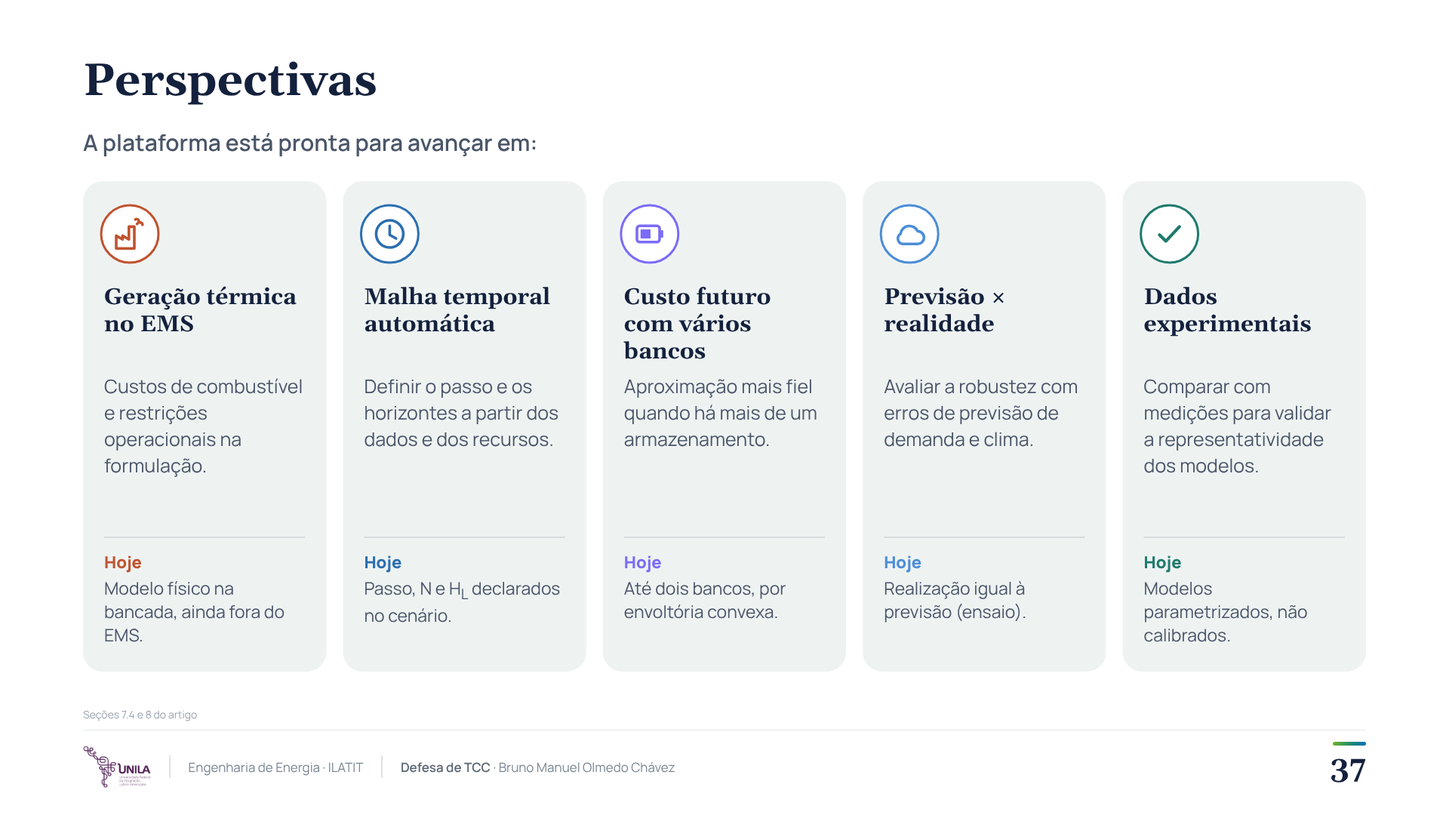
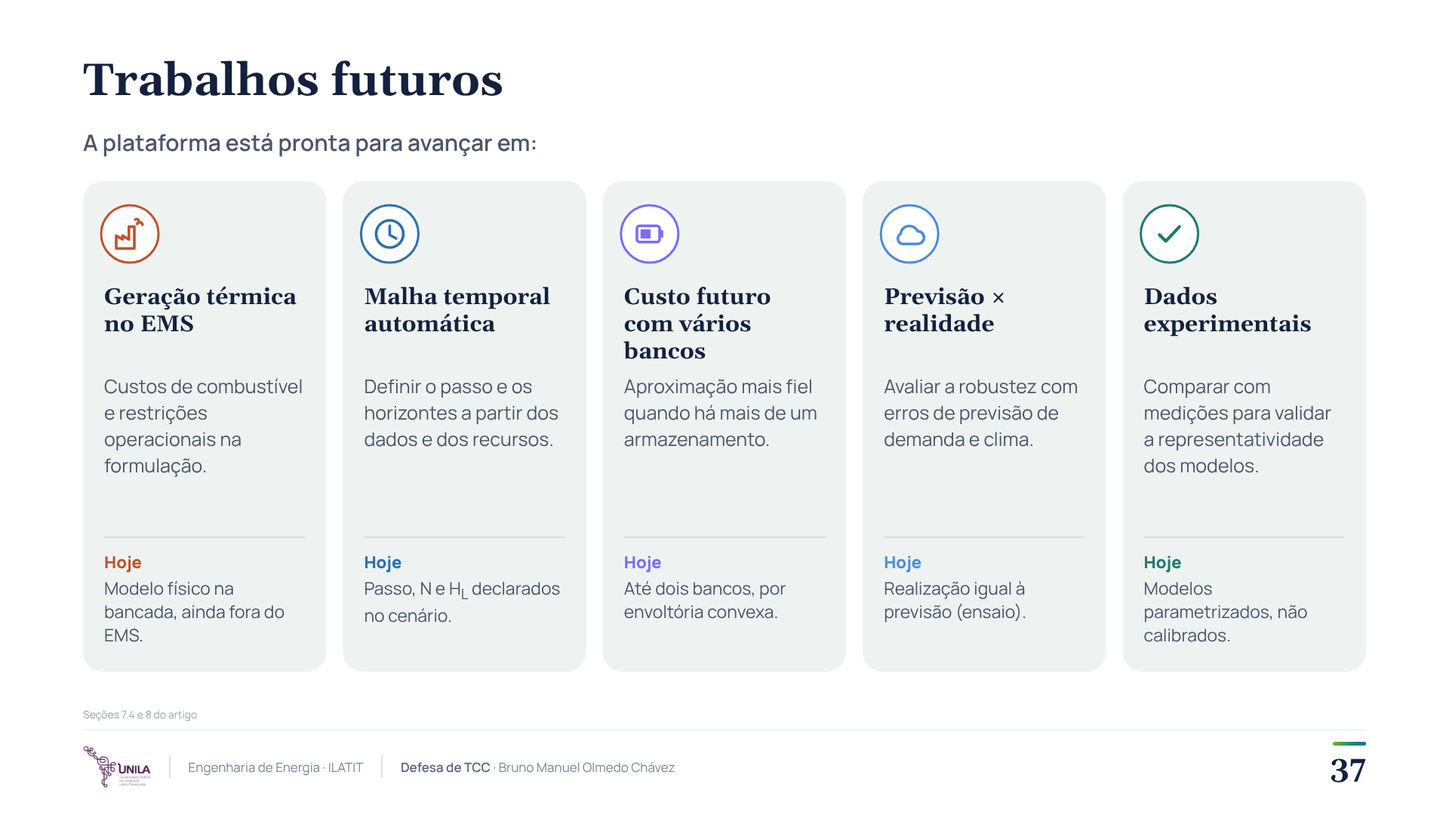
docs(defesa): slide 37 passa a se chamar «Trabalhos futuros» (slide e separador 07)
Claude-Session: https://claude.ai/code/session_01WQ2GpNmr661smFWiS8XCqs

Changed region(s): [[0.0625, 0.0611, 0.3438, 0.1222]]

diff --git a/docs/defesa_tcc/slides/S37_perspectivas.html b/docs/defesa_tcc/slides/S37_perspectivas.html
@@ -16,4 +16,4 @@ html,body{width:1920px;height:1080px;overflow:hidden;background:#fff}
 .p b{font-weight:800;color:#14213D}
 .p i{font-style:normal;color:#C0532F;font-weight:800}
 .p u{text-decoration:none;color:#1F7A6D;font-weight:800}
-</style></head><body><div class="slide"><div class="tt">Perspectivas</div><svg width="1920" height="1080" viewBox="0 0 1920 1080" style="position:absolute;left:0;top:0"><rect x="110.0" y="240" width="322.4" height="650" rx="26" fill="#EEF3F2"/><circle cx="172.0" cy="310" r="38" fill="#fff" stroke="#C0532F" stroke-width="3"/><svg x="148.0" y="286" width="48" height="48" viewBox="0 0 40 40" style="color:#C0532F"><g fill="none" stroke="currentColor" stroke-width="3" stroke-linejoin="round" stroke-linecap="round"><path d="M5 36V22l7 4v-4l7 4V12h6v24z"/><path d="M28 9c2-3 6-2 6 1M26 4c2-1 4 0 4 2"/></g></svg><line x1="138.0" x2="404.4" y1="712" y2="712" stroke="#D5DDDC" stroke-width="2"/><rect x="454.4" y="240" width="322.4" height="650" rx="26" fill="#EEF3F2"/><circle cx="516.4" cy="310" r="38" fill="#fff" stroke="#2C6FB0" stroke-width="3"/><svg x="492.4" y="286" width="48" height="48" viewBox="0 0 40 40" style="color:#2C6FB0"><circle cx="20" cy="20" r="15" fill="none" stroke="currentColor" stroke-width="3"/><path d="M20 11v10l7 4" fill="none" stroke="currentColor" stroke-width="3" stroke-linecap="round"/></svg><line x1="482.4" x2="748.8" y1="712" y2="712" stroke="#D5DDDC" stroke-width="2"/><rect x="798.8" y="240" width="322.4" height="650" rx="26" fill="#EEF3F2"/><circle cx="860.8" cy="310" r="38" fill="#fff" stroke="#7B6CF6" stroke-width="3"/><svg x="836.8" y="286" width="48" height="48" viewBox="0 0 40 40" style="color:#7B6CF6"><rect x="6" y="11" width="25" height="18" rx="3" fill="none" stroke="currentColor" stroke-width="3"/><rect x="32" y="16" width="3" height="8" fill="currentColor"/><rect x="10" y="15" width="11" height="10" fill="currentColor"/></svg><line x1="826.8" x2="1093.1999999999998" y1="712" y2="712" stroke="#D5DDDC" stroke-width="2"/><rect x="1143.1999999999998" y="240" width="322.4" height="650" rx="26" fill="#EEF3F2"/><circle cx="1205.1999999999998" cy="310" r="38" fill="#fff" stroke="#4C8DD6" stroke-width="3"/><svg x="1181.1999999999998" y="286" width="48" height="48" viewBox="0 0 40 40" style="color:#4C8DD6"><path d="M12 31h17a7 7 0 0 0 0-14 10 10 0 0 0-19 3 6 6 0 0 0 2 11z" fill="none" stroke="currentColor" stroke-width="3" stroke-linejoin="round"/></svg><line x1="1171.1999999999998" x2="1437.6" y1="712" y2="712" stroke="#D5DDDC" stroke-width="2"/><rect x="1487.6" y="240" width="322.4" height="650" rx="26" fill="#EEF3F2"/><circle cx="1549.6" cy="310" r="38" fill="#fff" stroke="#1F7A6D" stroke-width="3"/><svg x="1525.6" y="286" width="48" height="48" viewBox="0 0 40 40" style="color:#1F7A6D"><path d="M9 21l7 7 15-16" fill="none" stroke="currentColor" stroke-width="3.5" stroke-linecap="round" stroke-linejoin="round"/></svg><line x1="1515.6" x2="1782.0" y1="712" y2="712" stroke="#D5DDDC" stroke-width="2"/></svg><div class="d " style="left:110px;top:168px;width:1700px;font:600 30px Manrope;color:#4A5568">A plataforma está pronta para avançar em:</div><div class="d " style="left:138.0px;top:376px;width:266.4px;font:700 30px/1.2 Gelasio,serif;color:#14213D">Geração térmica no EMS</div><div class="d p" style="left:138.0px;top:494px;width:266.4px;font-size:25px;line-height:1.4">Custos de combustível e restrições operacionais na formulação.</div><div class="d p" style="left:138.0px;top:730px;width:266.4px;font-size:23px;line-height:1.35"><div style="font:700 22px Manrope;color:#C0532F;margin-bottom:4px">Hoje</div>Modelo físico na bancada, ainda fora do EMS.</div><div class="d " style="left:482.4px;top:376px;width:266.4px;font:700 30px/1.2 Gelasio,serif;color:#14213D">Malha temporal automática</div><div class="d p" style="left:482.4px;top:494px;width:266.4px;font-size:25px;line-height:1.4">Definir o passo e os horizontes a partir dos dados e dos recursos.</div><div class="d p" style="left:482.4px;top:730px;width:266.4px;font-size:23px;line-height:1.35"><div style="font:700 22px Manrope;color:#2C6FB0;margin-bottom:4px">Hoje</div>Passo, N e H<sub>L</sub> declarados no cenário.</div><div class="d " style="left:826.8px;top:376px;width:266.4px;font:700 30px/1.2 Gelasio,serif;color:#14213D">Custo futuro com vários bancos</div><div class="d p" style="left:826.8px;top:494px;width:266.4px;font-size:25px;line-height:1.4">Aproximação mais fiel quando há mais de um armazenamento.</div><div class="d p" style="left:826.8px;top:730px;width:266.4px;font-size:23px;line-height:1.35"><div style="font:700 22px Manrope;color:#7B6CF6;margin-bottom:4px">Hoje</div>Até dois bancos, por envoltória convexa.</div><div class="d " style="left:1171.1999999999998px;top:376px;width:266.4px;font:700 30px/1.2 Gelasio,serif;color:#14213D">Previsão × realidade</div><div class="d p" style="left:1171.1999999999998px;top:494px;width:266.4px;font-size:25px;line-height:1.4">Avaliar a robustez com erros de previsão de demanda e clima.</div><div class="d p" style="left:1171.1999999999998px;top:730px;width:266.4px;font-size:23px;line-height:1.35"><div style="font:700 22px Manrope;color:#4C8DD6;margin-bottom:4px">Hoje</div>Realização igual à previsão (ensaio).</div><div class="d " style="left:1515.6px;top:376px;width:266.4px;font:700 30px/1.2 Gelasio,serif;color:#14213D">Dados experimentais</div><div class="d p" style="left:1515.6px;top:494px;width:266.4px;font-size:25px;line-height:1.4">Comparar com medições para validar a representatividade dos modelos.</div><div class="d p" style="left:1515.6px;top:730px;width:266.4px;font-size:23px;line-height:1.35"><div style="font:700 22px Manrope;color:#1F7A6D;margin-bottom:4px">Hoje</div>Modelos parametrizados, não calibrados.</div><div class="ref">Seções 7.4 e 8 do artigo</div><div class="hl" style="bottom:112px"></div><div class="ft"><img src="../capa/assets/unila.png"><div class="sep"></div><span>Engenharia de Energia · ILATIT</span><div class="sep"></div><span><b>Defesa de TCC</b> · Bruno Manuel Olmedo Chávez</span></div><div class="pn">37</div></div></body></html>
+</style></head><body><div class="slide"><div class="tt">Trabalhos futuros</div><svg width="1920" height="1080" viewBox="0 0 1920 1080" style="position:absolute;left:0;top:0"><rect x="110.0" y="240" width="322.4" height="650" rx="26" fill="#EEF3F2"/><circle cx="172.0" cy="310" r="38" fill="#fff" stroke="#C0532F" stroke-width="3"/><svg x="148.0" y="286" width="48" height="48" viewBox="0 0 40 40" style="color:#C0532F"><g fill="none" stroke="currentColor" stroke-width="3" stroke-linejoin="round" stroke-linecap="round"><path d="M5 36V22l7 4v-4l7 4V12h6v24z"/><path d="M28 9c2-3 6-2 6 1M26 4c2-1 4 0 4 2"/></g></svg><line x1="138.0" x2="404.4" y1="712" y2="712" stroke="#D5DDDC" stroke-width="2"/><rect x="454.4" y="240" width="322.4" height="650" rx="26" fill="#EEF3F2"/><circle cx="516.4" cy="310" r="38" fill="#fff" stroke="#2C6FB0" stroke-width="3"/><svg x="492.4" y="286" width="48" height="48" viewBox="0 0 40 40" style="color:#2C6FB0"><circle cx="20" cy="20" r="15" fill="none" stroke="currentColor" stroke-width="3"/><path d="M20 11v10l7 4" fill="none" stroke="currentColor" stroke-width="3" stroke-linecap="round"/></svg><line x1="482.4" x2="748.8" y1="712" y2="712" stroke="#D5DDDC" stroke-width="2"/><rect x="798.8" y="240" width="322.4" height="650" rx="26" fill="#EEF3F2"/><circle cx="860.8" cy="310" r="38" fill="#fff" stroke="#7B6CF6" stroke-width="3"/><svg x="836.8" y="286" width="48" height="48" viewBox="0 0 40 40" style="color:#7B6CF6"><rect x="6" y="11" width="25" height="18" rx="3" fill="none" stroke="currentColor" stroke-width="3"/><rect x="32" y="16" width="3" height="8" fill="currentColor"/><rect x="10" y="15" width="11" height="10" fill="currentColor"/></svg><line x1="826.8" x2="1093.1999999999998" y1="712" y2="712" stroke="#D5DDDC" stroke-width="2"/><rect x="1143.1999999999998" y="240" width="322.4" height="650" rx="26" fill="#EEF3F2"/><circle cx="1205.1999999999998" cy="310" r="38" fill="#fff" stroke="#4C8DD6" stroke-width="3"/><svg x="1181.1999999999998" y="286" width="48" height="48" viewBox="0 0 40 40" style="color:#4C8DD6"><path d="M12 31h17a7 7 0 0 0 0-14 10 10 0 0 0-19 3 6 6 0 0 0 2 11z" fill="none" stroke="currentColor" stroke-width="3" stroke-linejoin="round"/></svg><line x1="1171.1999999999998" x2="1437.6" y1="712" y2="712" stroke="#D5DDDC" stroke-width="2"/><rect x="1487.6" y="240" width="322.4" height="650" rx="26" fill="#EEF3F2"/><circle cx="1549.6" cy="310" r="38" fill="#fff" stroke="#1F7A6D" stroke-width="3"/><svg x="1525.6" y="286" width="48" height="48" viewBox="0 0 40 40" style="color:#1F7A6D"><path d="M9 21l7 7 15-16" fill="none" stroke="currentColor" stroke-width="3.5" stroke-linecap="round" stroke-linejoin="round"/></svg><line x1="1515.6" x2="1782.0" y1="712" y2="712" stroke="#D5DDDC" stroke-width="2"/></svg><div class="d " style="left:110px;top:168px;width:1700px;font:600 30px Manrope;color:#4A5568">A plataforma está pronta para avançar em:</div><div class="d " style="left:138.0px;top:376px;width:266.4px;font:700 30px/1.2 Gelasio,serif;color:#14213D">Geração térmica no EMS</div><div class="d p" style="left:138.0px;top:494px;width:266.4px;font-size:25px;line-height:1.4">Custos de combustível e restrições operacionais na formulação.</div><div class="d p" style="left:138.0px;top:730px;width:266.4px;font-size:23px;line-height:1.35"><div style="font:700 22px Manrope;color:#C0532F;margin-bottom:4px">Hoje</div>Modelo físico na bancada, ainda fora do EMS.</div><div class="d " style="left:482.4px;top:376px;width:266.4px;font:700 30px/1.2 Gelasio,serif;color:#14213D">Malha temporal automática</div><div class="d p" style="left:482.4px;top:494px;width:266.4px;font-size:25px;line-height:1.4">Definir o passo e os horizontes a partir dos dados e dos recursos.</div><div class="d p" style="left:482.4px;top:730px;width:266.4px;font-size:23px;line-height:1.35"><div style="font:700 22px Manrope;color:#2C6FB0;margin-bottom:4px">Hoje</div>Passo, N e H<sub>L</sub> declarados no cenário.</div><div class="d " style="left:826.8px;top:376px;width:266.4px;font:700 30px/1.2 Gelasio,serif;color:#14213D">Custo futuro com vários bancos</div><div class="d p" style="left:826.8px;top:494px;width:266.4px;font-size:25px;line-height:1.4">Aproximação mais fiel quando há mais de um armazenamento.</div><div class="d p" style="left:826.8px;top:730px;width:266.4px;font-size:23px;line-height:1.35"><div style="font:700 22px Manrope;color:#7B6CF6;margin-bottom:4px">Hoje</div>Até dois bancos, por envoltória convexa.</div><div class="d " style="left:1171.1999999999998px;top:376px;width:266.4px;font:700 30px/1.2 Gelasio,serif;color:#14213D">Previsão × realidade</div><div class="d p" style="left:1171.1999999999998px;top:494px;width:266.4px;font-size:25px;line-height:1.4">Avaliar a robustez com erros de previsão de demanda e clima.</div><div class="d p" style="left:1171.1999999999998px;top:730px;width:266.4px;font-size:23px;line-height:1.35"><div style="font:700 22px Manrope;color:#4C8DD6;margin-bottom:4px">Hoje</div>Realização igual à previsão (ensaio).</div><div class="d " style="left:1515.6px;top:376px;width:266.4px;font:700 30px/1.2 Gelasio,serif;color:#14213D">Dados experimentais</div><div class="d p" style="left:1515.6px;top:494px;width:266.4px;font-size:25px;line-height:1.4">Comparar com medições para validar a representatividade dos modelos.</div><div class="d p" style="left:1515.6px;top:730px;width:266.4px;font-size:23px;line-height:1.35"><div style="font:700 22px Manrope;color:#1F7A6D;margin-bottom:4px">Hoje</div>Modelos parametrizados, não calibrados.</div><div class="ref">Seções 7.4 e 8 do artigo</div><div class="hl" style="bottom:112px"></div><div class="ft"><img src="../capa/assets/unila.png"><div class="sep"></div><span>Engenharia de Energia · ILATIT</span><div class="sep"></div><span><b>Defesa de TCC</b> · Bruno Manuel Olmedo Chávez</span></div><div class="pn">37</div></div></body></html>

diff --git a/docs/defesa_tcc/slides/divisor07.html b/docs/defesa_tcc/slides/divisor07.html
@@ -14,4 +14,4 @@ html,body{width:1920px;height:1080px;overflow:hidden;background:#fff}
 .d{position:absolute}
 .big{font:700 86px/1.05 "Gelasio",Georgia,serif;color:#14213D}
 .it{font:700 34px/1.2 "Gelasio",Georgia,serif;color:#14213D}
-</style></head><body><div class="slide" style=""><svg width="1920" height="1080" viewBox="0 0 1920 1080" style="position:absolute;left:0;top:0"><defs><linearGradient id="gb" x1="0" x2="1"><stop offset="0" stop-color="#6DB527"/><stop offset=".55" stop-color="#1E8A72"/><stop offset="1" stop-color="#0072BA"/></linearGradient><linearGradient id="gv" x1="0" y1="0" x2="0" y2="1"><stop offset="0" stop-color="#6DB527"/><stop offset=".55" stop-color="#1E8A72"/><stop offset="1" stop-color="#0072BA"/></linearGradient><radialGradient id="ge" cx=".5" cy=".5" r=".5"><stop offset="0" stop-color="#2C6FB0" stop-opacity=".16"/><stop offset="1" stop-color="#2C6FB0" stop-opacity=".03"/></radialGradient><radialGradient id="gs" cx=".5" cy=".5" r=".5"><stop offset="0" stop-color="#2E9E6B" stop-opacity=".16"/><stop offset="1" stop-color="#2E9E6B" stop-opacity=".03"/></radialGradient><linearGradient id="gq" x1="0" y1="1" x2="1" y2="0"><stop offset="0" stop-color="#1E8A72" stop-opacity="0"/><stop offset="1" stop-color="#1E8A72" stop-opacity=".13"/></linearGradient><linearGradient id="gsoc" x1="0" y1="0" x2="0" y2="1"><stop offset="0" stop-color="#7B6CF6" stop-opacity=".22"/><stop offset="1" stop-color="#7B6CF6" stop-opacity="0"/></linearGradient><linearGradient id="glime" x1="0" y1="0" x2="0" y2="1"><stop offset="0" stop-color="#C1FF72" stop-opacity=".30"/><stop offset="1" stop-color="#C1FF72" stop-opacity="0"/></linearGradient><filter id="halo" x="-60%" y="-60%" width="220%" height="220%"><feGaussianBlur stdDeviation="14"/></filter><marker id="ar" viewBox="0 0 10 10" refX="8" refY="5" markerWidth="9" markerHeight="9" orient="auto-start-reverse"><path d="M0 0L10 5L0 10z" fill="#14213D"/></marker><marker id="at" viewBox="0 0 10 10" refX="8" refY="5" markerWidth="8" markerHeight="8" orient="auto"><path d="M0 0L10 5L0 10z" fill="#1F7A6D"/></marker><clipPath id="cl"><circle cx="0" cy="0" r="1"/></clipPath><linearGradient id="gf" x1="0" y1="0" x2="0" y2="1"><stop offset="0" stop-color="#C0532F" stop-opacity=".24"/><stop offset="1" stop-color="#C0532F" stop-opacity="0"/></linearGradient><filter id="sh" x="-10%" y="-10%" width="120%" height="130%"><feDropShadow dx="0" dy="8" stdDeviation="14" flood-color="#14213D" flood-opacity=".12"/></filter></defs><polygon points="110.0,96 326.0,96 346.0,120.0 326.0,144 110.0,144" fill="#5cac37" opacity="0.22"/><text x="234.0" y="128.0" text-anchor="middle" font-family="Gelasio" font-weight="700" font-size="22" fill="#fff" letter-spacing="0">01</text><polygon points="354.0,96 570.0,96 590.0,120.0 570.0,144 354.0,144 374.0,120.0" fill="#4aa249" opacity="0.22"/><text x="478.0" y="128.0" text-anchor="middle" font-family="Gelasio" font-weight="700" font-size="22" fill="#fff" letter-spacing="0">02</text><polygon points="598.0,96 814.0,96 834.0,120.0 814.0,144 598.0,144 618.0,120.0" fill="#37985a" opacity="0.22"/><text x="722.0" y="128.0" text-anchor="middle" font-family="Gelasio" font-weight="700" font-size="22" fill="#fff" letter-spacing="0">03</text><polygon points="842.0,96 1058.0,96 1078.0,120.0 1058.0,144 842.0,144 862.0,120.0" fill="#258e6b" opacity="0.22"/><text x="966.0" y="128.0" text-anchor="middle" font-family="Gelasio" font-weight="700" font-size="22" fill="#fff" letter-spacing="0">04</text><polygon points="1086.0,96 1302.0,96 1322.0,120.0 1302.0,144 1086.0,144 1106.0,120.0" fill="#19867e" opacity="0.22"/><text x="1210.0" y="128.0" text-anchor="middle" font-family="Gelasio" font-weight="700" font-size="22" fill="#fff" letter-spacing="0">05</text><polygon points="1330.0,96 1546.0,96 1566.0,120.0 1546.0,144 1330.0,144 1350.0,120.0" fill="#107f92" opacity="0.22"/><text x="1454.0" y="128.0" text-anchor="middle" font-family="Gelasio" font-weight="700" font-size="22" fill="#fff" letter-spacing="0">06</text><polygon points="1574.0,96 1790.0,96 1810.0,120.0 1790.0,144 1574.0,144 1594.0,120.0" fill="#0878a7" opacity="1"/><text x="1698.0" y="128.0" text-anchor="middle" font-family="Gelasio" font-weight="700" font-size="22" fill="#fff" letter-spacing="0">07</text><text x="110" y="400" text-anchor="start" font-family="Gelasio" font-weight="700" font-size="230" fill="#0878a7" letter-spacing="0">07</text><svg x="1694" y="236" width="116" height="116" viewBox="0 0 40 40" style="color:#0878a7" fill="none" stroke="currentColor" stroke-width="3" stroke-linecap="round" stroke-linejoin="round"><path d="M9 36V5"/><path d="M9 6h20l-4 7 4 7H9"/></svg><rect x="110" y="600" width="840" height="100" rx="22" fill="#EEF3F2"/><circle cx="164" cy="650.0" r="28" fill="#0878a7"/><text x="164" y="659.0" text-anchor="middle" font-family="Gelasio" font-weight="700" font-size="26" fill="#fff" letter-spacing="0">1</text><rect x="970" y="600" width="840" height="100" rx="22" fill="#EEF3F2"/><circle cx="1024" cy="650.0" r="28" fill="#0878a7"/><text x="1024" y="659.0" text-anchor="middle" font-family="Gelasio" font-weight="700" font-size="26" fill="#fff" letter-spacing="0">2</text><rect x="110" y="720" width="840" height="100" rx="22" fill="#EEF3F2"/><circle cx="164" cy="770.0" r="28" fill="#0878a7"/><text x="164" y="779.0" text-anchor="middle" font-family="Gelasio" font-weight="700" font-size="26" fill="#fff" letter-spacing="0">3</text></svg><div class="d big" style="left:110px;top:452px;width:1500px">Conclusões e perspectivas</div><div class="d it" style="left:214px;top:628.0px;width:710px;font-size:28px">Conclusões</div><div class="d it" style="left:1074px;top:628.0px;width:710px;font-size:28px">Perspectivas</div><div class="d it" style="left:214px;top:748.0px;width:710px;font-size:28px">Agradecimentos</div><div class="hl" style="bottom:112px"></div><div class="ft"><img src="../capa/assets/unila.png"><div class="sep"></div><span>Engenharia de Energia · ILATIT</span><div class="sep"></div><span><b>Defesa de TCC</b> · Bruno Manuel Olmedo Chávez</span></div><div class="pn">34</div></div></body></html>
+</style></head><body><div class="slide" style=""><svg width="1920" height="1080" viewBox="0 0 1920 1080" style="position:absolute;left:0;top:0"><defs><linearGradient id="gb" x1="0" x2="1"><stop offset="0" stop-color="#6DB527"/><stop offset=".55" stop-color="#1E8A72"/><stop offset="1" stop-color="#0072BA"/></linearGradient><linearGradient id="gv" x1="0" y1="0" x2="0" y2="1"><stop offset="0" stop-color="#6DB527"/><stop offset=".55" stop-color="#1E8A72"/><stop offset="1" stop-color="#0072BA"/></linearGradient><radialGradient id="ge" cx=".5" cy=".5" r=".5"><stop offset="0" stop-color="#2C6FB0" stop-opacity=".16"/><stop offset="1" stop-color="#2C6FB0" stop-opacity=".03"/></radialGradient><radialGradient id="gs" cx=".5" cy=".5" r=".5"><stop offset="0" stop-color="#2E9E6B" stop-opacity=".16"/><stop offset="1" stop-color="#2E9E6B" stop-opacity=".03"/></radialGradient><linearGradient id="gq" x1="0" y1="1" x2="1" y2="0"><stop offset="0" stop-color="#1E8A72" stop-opacity="0"/><stop offset="1" stop-color="#1E8A72" stop-opacity=".13"/></linearGradient><linearGradient id="gsoc" x1="0" y1="0" x2="0" y2="1"><stop offset="0" stop-color="#7B6CF6" stop-opacity=".22"/><stop offset="1" stop-color="#7B6CF6" stop-opacity="0"/></linearGradient><linearGradient id="glime" x1="0" y1="0" x2="0" y2="1"><stop offset="0" stop-color="#C1FF72" stop-opacity=".30"/><stop offset="1" stop-color="#C1FF72" stop-opacity="0"/></linearGradient><filter id="halo" x="-60%" y="-60%" width="220%" height="220%"><feGaussianBlur stdDeviation="14"/></filter><marker id="ar" viewBox="0 0 10 10" refX="8" refY="5" markerWidth="9" markerHeight="9" orient="auto-start-reverse"><path d="M0 0L10 5L0 10z" fill="#14213D"/></marker><marker id="at" viewBox="0 0 10 10" refX="8" refY="5" markerWidth="8" markerHeight="8" orient="auto"><path d="M0 0L10 5L0 10z" fill="#1F7A6D"/></marker><clipPath id="cl"><circle cx="0" cy="0" r="1"/></clipPath><linearGradient id="gf" x1="0" y1="0" x2="0" y2="1"><stop offset="0" stop-color="#C0532F" stop-opacity=".24"/><stop offset="1" stop-color="#C0532F" stop-opacity="0"/></linearGradient><filter id="sh" x="-10%" y="-10%" width="120%" height="130%"><feDropShadow dx="0" dy="8" stdDeviation="14" flood-color="#14213D" flood-opacity=".12"/></filter></defs><polygon points="110.0,96 326.0,96 346.0,120.0 326.0,144 110.0,144" fill="#5cac37" opacity="0.22"/><text x="234.0" y="128.0" text-anchor="middle" font-family="Gelasio" font-weight="700" font-size="22" fill="#fff" letter-spacing="0">01</text><polygon points="354.0,96 570.0,96 590.0,120.0 570.0,144 354.0,144 374.0,120.0" fill="#4aa249" opacity="0.22"/><text x="478.0" y="128.0" text-anchor="middle" font-family="Gelasio" font-weight="700" font-size="22" fill="#fff" letter-spacing="0">02</text><polygon points="598.0,96 814.0,96 834.0,120.0 814.0,144 598.0,144 618.0,120.0" fill="#37985a" opacity="0.22"/><text x="722.0" y="128.0" text-anchor="middle" font-family="Gelasio" font-weight="700" font-size="22" fill="#fff" letter-spacing="0">03</text><polygon points="842.0,96 1058.0,96 1078.0,120.0 1058.0,144 842.0,144 862.0,120.0" fill="#258e6b" opacity="0.22"/><text x="966.0" y="128.0" text-anchor="middle" font-family="Gelasio" font-weight="700" font-size="22" fill="#fff" letter-spacing="0">04</text><polygon points="1086.0,96 1302.0,96 1322.0,120.0 1302.0,144 1086.0,144 1106.0,120.0" fill="#19867e" opacity="0.22"/><text x="1210.0" y="128.0" text-anchor="middle" font-family="Gelasio" font-weight="700" font-size="22" fill="#fff" letter-spacing="0">05</text><polygon points="1330.0,96 1546.0,96 1566.0,120.0 1546.0,144 1330.0,144 1350.0,120.0" fill="#107f92" opacity="0.22"/><text x="1454.0" y="128.0" text-anchor="middle" font-family="Gelasio" font-weight="700" font-size="22" fill="#fff" letter-spacing="0">06</text><polygon points="1574.0,96 1790.0,96 1810.0,120.0 1790.0,144 1574.0,144 1594.0,120.0" fill="#0878a7" opacity="1"/><text x="1698.0" y="128.0" text-anchor="middle" font-family="Gelasio" font-weight="700" font-size="22" fill="#fff" letter-spacing="0">07</text><text x="110" y="400" text-anchor="start" font-family="Gelasio" font-weight="700" font-size="230" fill="#0878a7" letter-spacing="0">07</text><svg x="1694" y="236" width="116" height="116" viewBox="0 0 40 40" style="color:#0878a7" fill="none" stroke="currentColor" stroke-width="3" stroke-linecap="round" stroke-linejoin="round"><path d="M9 36V5"/><path d="M9 6h20l-4 7 4 7H9"/></svg><rect x="110" y="600" width="840" height="100" rx="22" fill="#EEF3F2"/><circle cx="164" cy="650.0" r="28" fill="#0878a7"/><text x="164" y="659.0" text-anchor="middle" font-family="Gelasio" font-weight="700" font-size="26" fill="#fff" letter-spacing="0">1</text><rect x="970" y="600" width="840" height="100" rx="22" fill="#EEF3F2"/><circle cx="1024" cy="650.0" r="28" fill="#0878a7"/><text x="1024" y="659.0" text-anchor="middle" font-family="Gelasio" font-weight="700" font-size="26" fill="#fff" letter-spacing="0">2</text><rect x="110" y="720" width="840" height="100" rx="22" fill="#EEF3F2"/><circle cx="164" cy="770.0" r="28" fill="#0878a7"/><text x="164" y="779.0" text-anchor="middle" font-family="Gelasio" font-weight="700" font-size="26" fill="#fff" letter-spacing="0">3</text></svg><div class="d big" style="left:110px;top:452px;width:1500px">Conclusões e perspectivas</div><div class="d it" style="left:214px;top:628.0px;width:710px;font-size:28px">Conclusões</div><div class="d it" style="left:1074px;top:628.0px;width:710px;font-size:28px">Trabalhos futuros</div><div class="d it" style="left:214px;top:748.0px;width:710px;font-size:28px">Agradecimentos</div><div class="hl" style="bottom:112px"></div><div class="ft"><img src="../capa/assets/unila.png"><div class="sep"></div><span>Engenharia de Energia · ILATIT</span><div class="sep"></div><span><b>Defesa de TCC</b> · Bruno Manuel Olmedo Chávez</span></div><div class="pn">34</div></div></body></html>

diff --git a/docs/defesa_tcc/slides/gerar_slide37.py b/docs/defesa_tcc/slides/gerar_slide37.py
@@ -1,4 +1,4 @@
-"""Slide 37 (deck) — Perspectivas, tom construtivo («a plataforma está pronta para avançar em…»). Cinco perspectivas do artigo
+"""Slide 37 (deck) — Trabalhos futuros (antes «Perspectivas»; pedido do responsável), tom construtivo («a plataforma está pronta para avançar em…»). Cinco perspectivas do artigo
 (Seção 7.4/8): térmica no EMS (custos de combustível e restrições operacionais); malha temporal e discretização automáticas; custo
 futuro para múltiplos bancos; previsões × condições realizadas (robustez); comparação com dados experimentais. A linha «Hoje» descreve
 o estado atual verificado no código (CLAUDE.md): térmica bloqueada no EMS V2 (M19/CVU não implementado); Δ, N e H_L declarados no
@@ -10,7 +10,7 @@ from gerar_slide16 import CSSM, HEAD, NAVY, LIGHT, div, ic
 from gerar_slide8 import rodape
 
 D = os.path.dirname(os.path.abspath(__file__))
-TIT = "Perspectivas"
+TIT = "Trabalhos futuros"
 REF = "Seções 7.4 e 8 do artigo"
 TEAL = "#1F7A6D"
 P = [("fire", "#C0532F", "Geração térmica no EMS", "Custos de combustível e restrições operacionais na formulação.",

diff --git a/docs/defesa_tcc/slides/gerar_divisores.py b/docs/defesa_tcc/slides/gerar_divisores.py
@@ -26,7 +26,7 @@ SUB = {
     5: ["Reprodução ao vivo de um estudo de caso no aplicativo"],
     6: ["Operação do armazenamento", "Custos operacionais (C1–C4)", "Embarcação híbrida (C5 × C6)",
         "Expansibilidade e desempenho computacional"],
-    7: ["Conclusões", "Perspectivas", "Agradecimentos"],
+    7: ["Conclusões", "Trabalhos futuros", "Agradecimentos"],
 }
 PN = {1: 3, 2: 9, 3: 16, 4: 21, 5: 25, 6: 27, 7: 34}     # posição no deck de 36 slides (ver pptx/deck.json)
 CSSD = CSS + """

diff --git a/docs/defesa_tcc/pptx/deck.py b/docs/defesa_tcc/pptx/deck.py
@@ -54,7 +54,7 @@ ORDEM = [
     ("Expansibilidade e desempenho computacional", 6, "slides/slide34_aprovado.html"),
     ("Conclusões e perspectivas", 7, "slides/divisor07.html"),
     ("Conclusões", 7, "slides/slide36_aprovado.html"),
-    ("Perspectivas", 7, None),
+    ("Trabalhos futuros", 7, None),
     ("Agradecimentos", 7, None),
 ]
 # título do slide no roteiro (conteudo.py) quando difere do título no deck — para buscar a fala

diff --git a/docs/defesa_tcc/ROTEIRO.md b/docs/defesa_tcc/ROTEIRO.md
@@ -87,5 +87,5 @@ A tabela acima é o roteiro por conteúdo (numeração antiga). A numeração **
 | 34 | Expansibilidade e desempenho computacional | 06 | ✔ aprovado (composições compactas, curva PWL gravada e erro relativo) |
 | 35 | Conclusões e perspectivas | 07 | ✔ aprovado |
 | 36 | Conclusões | 07 | ✔ aprovado (resposta à pergunta, objetivos marcados, comparação dos dois estudos) |
-| 37 | Perspectivas | 07 | a desenhar |
+| 37 | Trabalhos futuros | 07 | a desenhar |
 | 38 | Agradecimentos | 07 | a desenhar |
